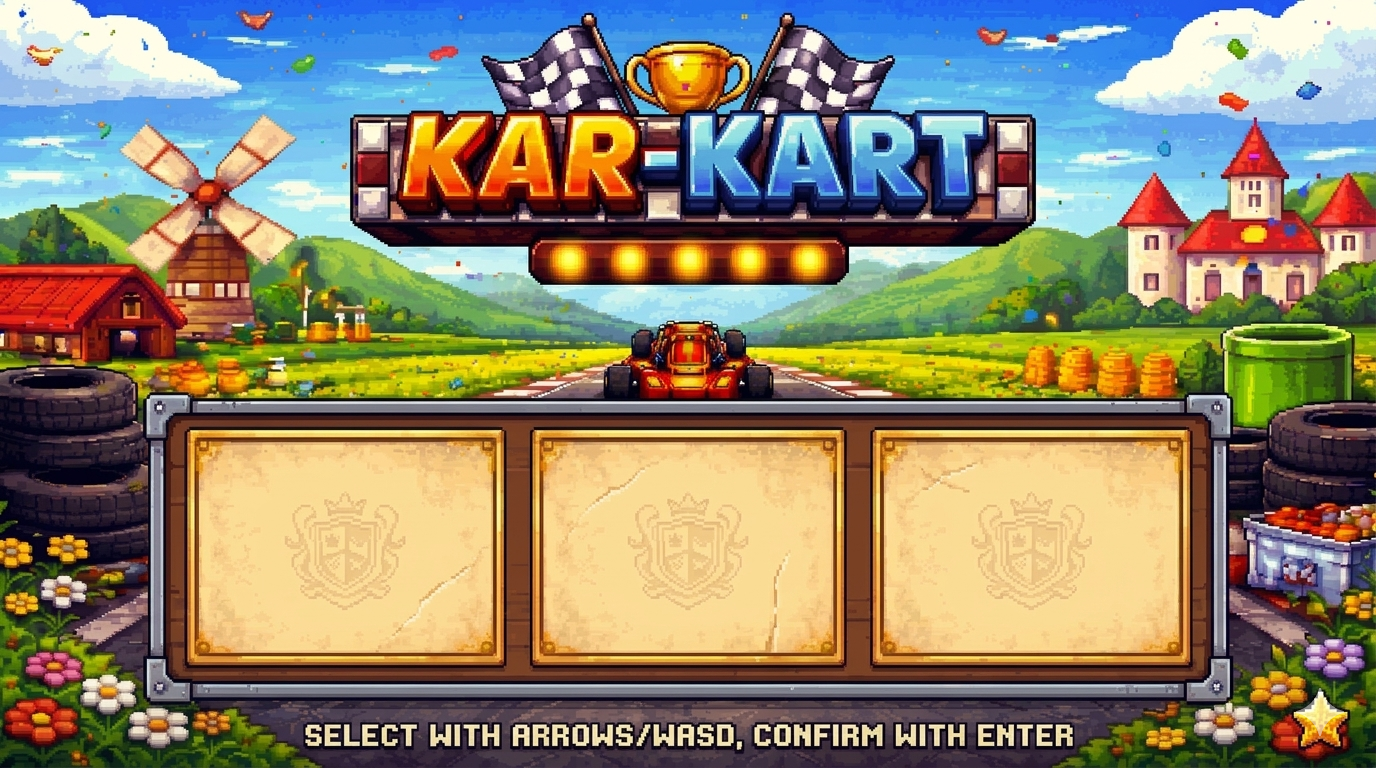
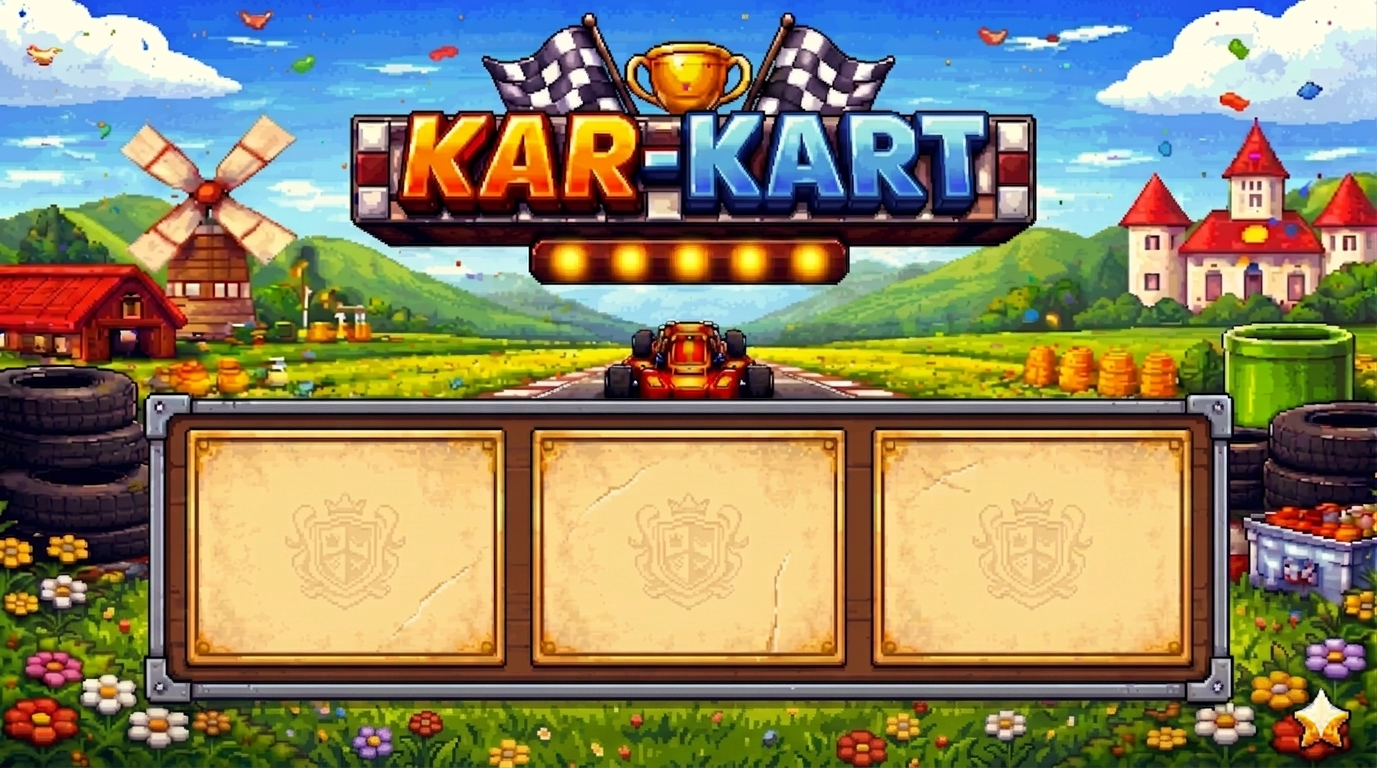
HUD TO 1 LAP AND START ADDED TEXT PRESS H FOR HELP

diff --git a/karkart/screens/start.py b/karkart/screens/start.py
@@ -3,7 +3,7 @@ from __future__ import annotations
 import pygame
 
 from karkart.constants import Colors, ScreenPositions as sp
-from karkart.paths import PICTURES_DIR
+from karkart.paths import PICTURES_DIR, PIXEL_FONT
 from karkart.screens.screen_object import Screen
 from karkart.ui import TextCard
 from karkart.ui.help_icon import HelpIcon
@@ -31,6 +31,8 @@ class StartScreen(Screen):
             sp.HEIGHT - 120,
         )
 
+        self.help_font = pygame.font.Font(str(PIXEL_FONT), 12)
+
     def handle_event(self, event) -> None:
         if event.type != pygame.KEYDOWN:
             return None
@@ -44,6 +46,22 @@ class StartScreen(Screen):
     def update(self) -> None:
         pass
 
+    def _draw_help_text(self, surface: pygame.Surface) -> None:
+        text = "PRESS H FOR HELP"
+
+        shadow = self.help_font.render(text, False, (25, 25, 25))
+        label = self.help_font.render(text, False, Colors.WHITE)
+
+        text_rect = label.get_rect(
+            center=(
+                sp.CENTER_X,
+                sp.HEIGHT - 35,
+            )
+        )
+
+        surface.blit(shadow, text_rect.move(2, 2))
+        surface.blit(label, text_rect)
+
     def draw(self, surface: pygame.Surface) -> None:
         pygame.display.set_caption("Kar Kart")
 
@@ -53,6 +71,7 @@ class StartScreen(Screen):
             surface.fill(Colors.BLACK)
 
         self.start_card.draw(surface)
+        self._draw_help_text(surface)
 
         self.help_icon.draw(surface)
         self.settings_icon.draw(surface)

diff --git a/karkart/screens/gameplay.py b/karkart/screens/gameplay.py
@@ -617,7 +617,7 @@ class GamePlay(Screen):
             HUD_lines = [
                 f"{minutes}:{seconds:06.3f}",
                 f"{kph}kmh",
-                f" {lap}/3",
+                f" {lap}/1",
                 f" {cp_in_lap}/{total_cps}",
             ]
 
@@ -626,7 +626,7 @@ class GamePlay(Screen):
                 f"   {snapshot.position_label}",
                 f" {powerup}",
                 f"{kph}kmh",
-                f" {lap}/3",
+                f" {lap}/1",
                 f" {cp_in_lap}/{total_cps}",
             ]
 
